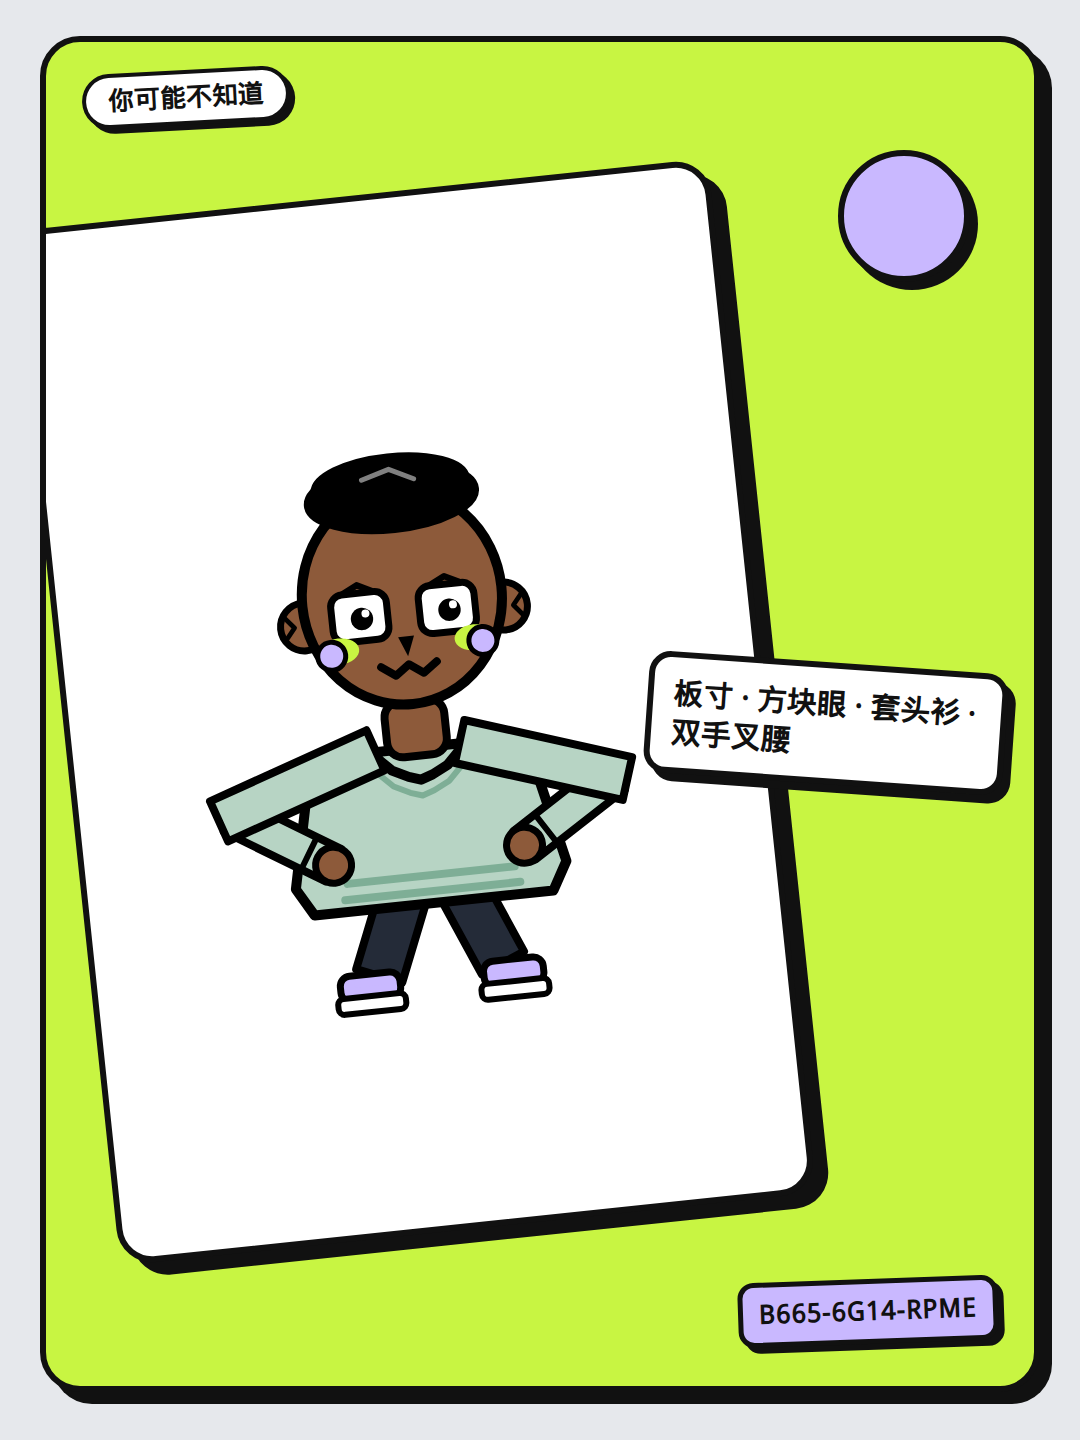
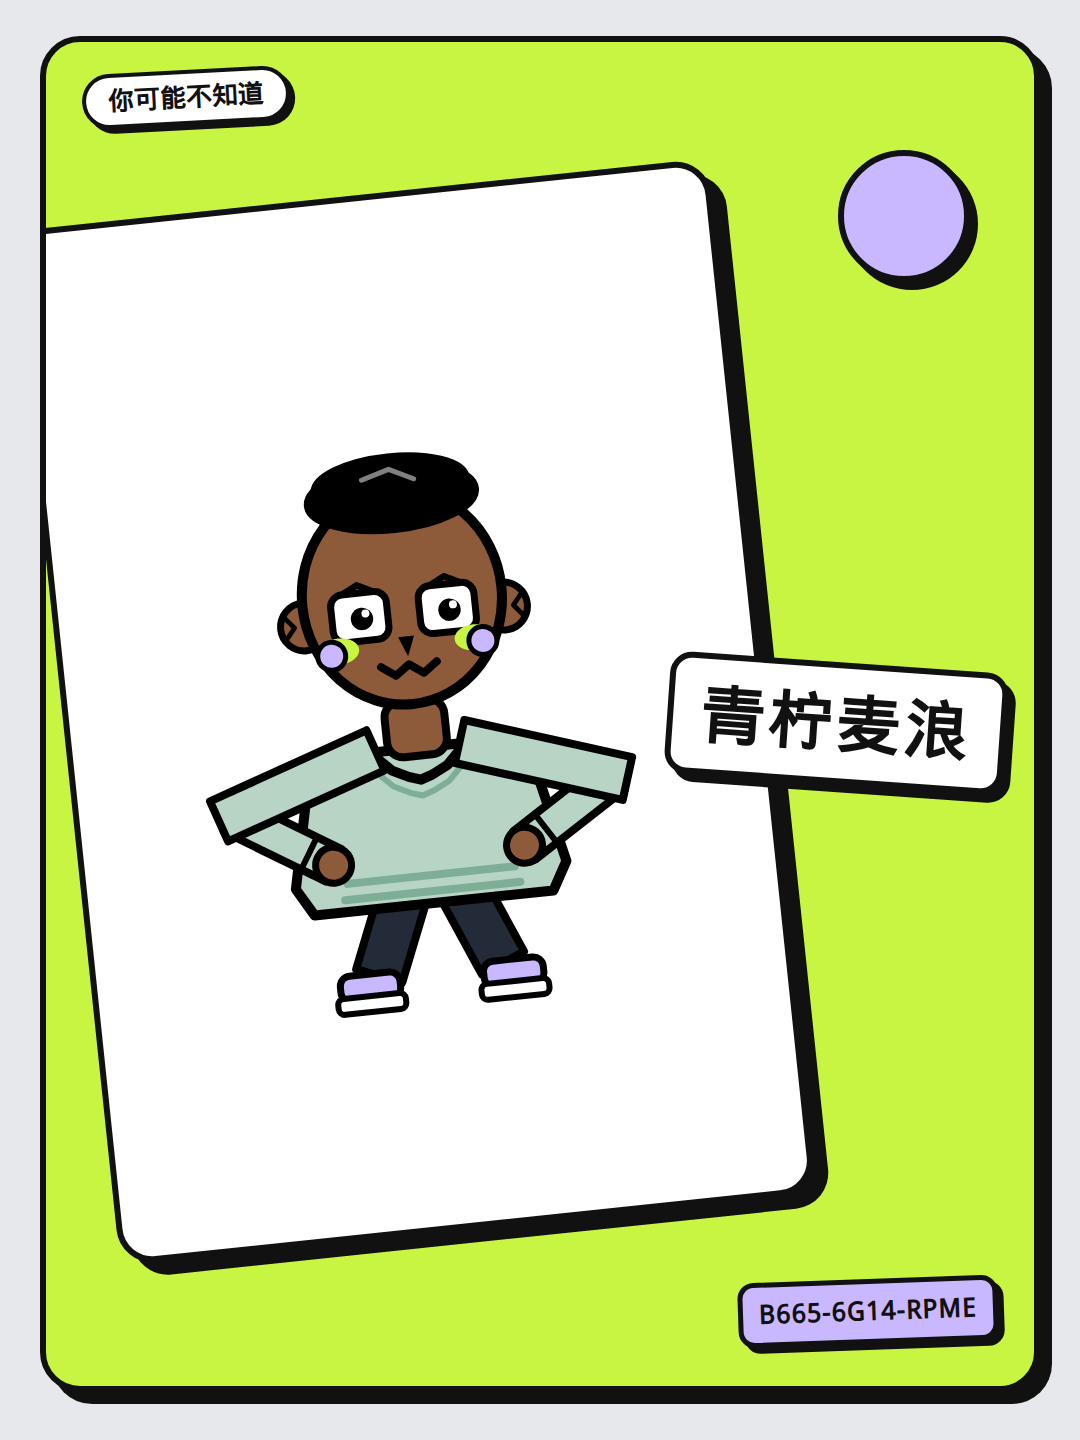
样张右侧改成指纹码生成的四字中文名
成绩卡只留形象、唯一名字和编码。名字由规范化指纹码确定性地取前后词拼成，不再把发型眼睛衣服姿势写上卡面。

Changed region(s): [[0.5806, 0.4375, 0.9167, 0.5625]]

diff --git a/preview.html b/preview.html
@@ -80,16 +80,17 @@
       right: 28px;
       top: 620px;
       z-index: 3;
-      max-width: 360px;
       background: #fff;
       border: 6px solid #111;
       border-radius: 22px;
-      padding: 16px 20px;
+      padding: 18px 28px;
       box-shadow: 8px 8px 0 #111;
       transform: rotate(4deg);
-      font-size: 30px;
+      font-size: 64px;
       font-weight: 900;
-      line-height: 1.3;
+      line-height: 1.15;
+      letter-spacing: 0.06em;
+      white-space: nowrap;
     }
     .stamp {
       position: absolute;
@@ -230,7 +231,7 @@
         var model = G.figureModel(raw);
         if (rewrite) document.getElementById('fp').value = model.fp;
         document.getElementById('code').textContent = model.fp;
-        document.getElementById('meta').textContent = model.cardLine;
+        document.getElementById('meta').textContent = model.displayName;
         document.getElementById('panel').innerHTML = G.figureSVG(model.fp, 500);
         paint('c320', model.fp, 320);
         paint('c128', model.fp, 128);
@@ -250,7 +251,7 @@
       }
       function fillTools() {
         var G = window.YKBD_FIGURE;
-        document.getElementById('lead').textContent = '组合数 ' + G.combo + '。地址栏可用 ?fp=XXXX-XXXX-XXXX ，本页不联网。白卡只放形象、部件名和指纹码。';
+        document.getElementById('lead').textContent = '组合数 ' + G.combo + '。地址栏可用 ?fp=XXXX-XXXX-XXXX ，本页不联网。白卡只放形象、中文名和编码。';
         var seeds = document.getElementById('seeds');
         var i;
         for (i = 0; i < EXAMPLES.length; i++) {

diff --git a/js/figure-avatar.js b/js/figure-avatar.js
@@ -202,6 +202,26 @@
     if (mainFill === '#C9B8FF') return '#C8F542';
     return '#C9B8FF';
   }
+  /* 四字合成名：前词 + 后词，只由规范化后的 12 位码决定。 */
+  var NAME_L = [
+    '盐巴', '雾窗', '纸鹤', '月光', '晴天', '晚风', '海盐', '青苔',
+    '薄荷', '电台', '松果', '信笺', '麦芽', '果酱', '码头', '蝉鸣',
+    '暖桌', '纸船', '柠檬', '夜航', '糖纸', '雨巷', '青柠', '候鸟',
+    '潮汐', '绒线', '晨雾', '桃核', '风铃', '银杏', '云朵', '星子'
+  ];
+  var NAME_R = [
+    '气球', '火柴', '汽水', '拉面', '板栗', '灯塔', '柚子', '邮戳',
+    '饼干', '墨水', '柳絮', '炉火', '雪松', '琴键', '藤蔓', '贝壳',
+    '麦浪', '灯芯', '霜糖', '茶渍', '枫糖', '橘瓣', '苇岸', '瓷杯',
+    '线团', '露台', '热汤', '铁盒', '蜡笔', '毛线', '船票', '布丁'
+  ];
+  function figureName(raw) {
+    var h = fnv('ykbd-cn-name:' + raw);
+    var left = NAME_L[h % NAME_L.length];
+    h = Math.imul(h ^ (h >>> 16), 0x7feb352d) >>> 0;
+    return left + NAME_R[h % NAME_R.length];
+  }
+
   function pub(list) {
     var out = [];
     for (var i = 0; i < list.length; i++) out.push({ id: list[i].id, name: list[i].name });
@@ -252,6 +272,7 @@
         shoe: detail
       },
       sleeve: sleeve,
+      displayName: figureName(raw),
       cardLine: HAIR[hi].name + ' · ' + EYES[ei].name + ' · ' + BODY[bi].name + ' · ' + POSE[pi].name
     };
   }

diff --git a/tools/model-check.js b/tools/model-check.js
@@ -192,9 +192,15 @@ else {
 console.log('MODEL ' + a.hair.name + ' / ' + a.eyes.name + ' / ' + a.mouth.name + ' / ' + a.body.name + ' / ' + a.pose.name + ' / ' + a.main.name + ' / ' + a.accent.name + ' / ' + a.accessory.name);
 
 var samples = ['B665-6G14-RPME', '0000-0000-0000', '0708-0253-0243', '0509-0736-0305', '0401-0174-0474'];
+var seenName = {};
 for (i = 0; i < samples.length; i++) {
   var m = G.figureModel(samples[i]);
-  console.log('SEED ' + m.fp + ' ' + m.hair.id + ' ' + m.eyes.id + ' ' + m.mouth.id + ' ' + m.body.id + ' ' + m.pose.id + ' ' + m.main.id + ' ' + m.accent.id + ' ' + m.accessory.id);
+  console.log('SEED ' + m.fp + ' ' + m.displayName + ' ' + m.hair.id + ' ' + m.eyes.id + ' ' + m.mouth.id + ' ' + m.body.id + ' ' + m.pose.id + ' ' + m.main.id + ' ' + m.accent.id + ' ' + m.accessory.id);
+  if (!m.displayName || m.displayName.length < 2 || m.displayName.length > 4) fail('name len ' + m.fp + ' ' + m.displayName);
+  if (m.displayName.indexOf('·') >= 0) fail('name parts ' + m.fp);
+  if (G.figureModel(m.fp).displayName !== m.displayName) fail('name unstable ' + m.fp);
+  if (seenName[m.displayName]) fail('name collide ' + m.displayName);
+  seenName[m.displayName] = 1;
 }
 
 if (fails.length) {

diff --git a/README.md b/README.md
@@ -13,7 +13,7 @@
 - 页面上有输入框和 5 个样张种子，点一下就换
 - 部件一览：`tools/sheet.html`（12 种发型、10 种眼睛、10 种嘴、8 种衣服、8 种姿势、8 种配件）
 
-`?shot=1` 会藏起说明，留下 1080×1440 的黄绿斜贴卡，用来截样张。贴纸里的小人整身居中，右侧是部件名，右下是指纹码。不写成绩。硬规则原文：`docs/FIGURE_HARD_RULES.md`（与根目录 `RULES.md` 相同）。视觉气质见 `samples/reference-b3/`。
+`?shot=1` 会藏起说明，留下 1080×1440 的黄绿斜贴卡，用来截样张。贴纸里的小人整身居中，右侧只有指纹码生成的四字中文名，右下是编码。不写部件说明，不写成绩。硬规则原文：`docs/FIGURE_HARD_RULES.md`（与根目录 `RULES.md` 相同）。视觉气质见 `samples/reference-b3/`。
 
 ## 种子怎么切
 
@@ -64,7 +64,7 @@
 
 每个发型都要在 `HAIR_TYPE` 里声明类型，漏声明会让自检失败。`bangs`（齐耳波波、偏分、双丸子、长直发、侧马尾、齐肩、侧扫、单丸子）必须把额发盖到眉上，额头覆盖率至少 0.70。`short`（蓬圆、尖刺）允许露额，前发不能压到眼睛。`crop`（短发、板寸）必须露额，额头覆盖率不超过 0.45。本引擎画布是 320×320，眉上一带约在 y=64–96，对应定稿里另一套坐标的额头带。
 
-演示卡只放形象、部件名和指纹码，不写成绩，也不使用「本局限定」「指纹小人」「示意稿」「本局卡」「指纹名」「仅此一局」「冷知识」。
+演示卡只放形象、四字中文名和编码。名字由规范化后的 12 位码用 FNV 取前后词表拼成，同一种子永远同一个名字。不写「板寸 · 方块眼」这类部件说明，不写成绩，也不使用「本局限定」「指纹小人」「示意稿」「本局卡」「指纹名」「仅此一局」「冷知识」。
 
 ## 视觉
 
@@ -80,7 +80,7 @@
 | `figureSVG(fp, size)` | SVG 字符串。`size` 是边长，默认 320。坐标系 320×320 |
 | `drawFigure(ctx, fp, x, y, size)` | 同步画到 canvas。`x, y` 是左上角，`size` 是边长 |
 
-若 `window.YKBD_F` 已经存在，本文件会把 `F.avatarSVG(fp)` 和 `F.drawAvatar(ctx, fp, x, y, size)` 指到新引擎，调用方式和旧头像相同。`F.encode` / `F.decode` / `F.fnv` / `F.rng` 与小工具兼容。预览卡只写部件名和指纹码，不写成绩。
+若 `window.YKBD_F` 已经存在，本文件会把 `F.avatarSVG(fp)` 和 `F.drawAvatar(ctx, fp, x, y, size)` 指到新引擎，调用方式和旧头像相同。`F.encode` / `F.decode` / `F.fnv` / `F.rng` 与小工具兼容。预览卡只写中文名和编码，不写成绩。`figureModel(fp).displayName` 是这枚码的四字名，`cardLine` 只给对照表用，不上卡。
 
 ## 目录
 
@@ -104,15 +104,17 @@
 
 ## 样张
 
-由 `bash tools/render-samples.sh` 用无头 Chrome 打开 `preview.html?shot=1` 截取，1080×1440。贴纸里是完整全身，右侧是部件名，右下是指纹码。
+由 `bash tools/render-samples.sh` 用无头 Chrome 打开 `preview.html?shot=1` 截取，1080×1440。贴纸里是完整全身，右侧是四字中文名，右下是编码。
 
-| 文件 | 形象 |
-| --- | --- |
-| `samples/B665-6G14-RPME.png` | 板寸露额 · 方块眼 · 波浪嘴 · 套头衫 · 双手叉腰 · 灰绿 · 淡紫颊点 |
-| `samples/0000-0000-0000.png` | 齐耳波波 · 方框眼镜 · 一字嘴 · 荧光黄绿短袖 · 自然站立 |
-| `samples/0708-0253-0243.png` | 蓬圆露额 · 墨镜 · 开口笑 · 冰蓝连帽衫（帽绳、口袋）· 挥手 · 小包 |
-| `samples/0509-0736-0305.png` | 长直发在身后 · 眨眼 · 齿笑 · 背带 · 迈步 · 领结 |
-| `samples/0401-0174-0474.png` | 双丸子 · 圆框眼镜 · 微笑 · 条纹衫 · 双手叉腰 · 发带 |
+卡面右侧写的是中文名，不是下面这列形象说明。
+
+| 文件 | 中文名 | 形象 |
+| --- | --- | --- |
+| `samples/B665-6G14-RPME.png` | 青柠麦浪 | 板寸露额 · 方块眼 · 波浪嘴 · 套头衫 · 双手叉腰 · 灰绿 · 淡紫颊点 |
+| `samples/0000-0000-0000.png` | 雨巷苇岸 | 齐耳波波 · 方框眼镜 · 一字嘴 · 荧光黄绿短袖 · 自然站立 |
+| `samples/0708-0253-0243.png` | 晚风汽水 | 蓬圆露额 · 墨镜 · 开口笑 · 冰蓝连帽衫（帽绳、口袋）· 挥手 · 小包 |
+| `samples/0509-0736-0305.png` | 候鸟橘瓣 | 长直发在身后 · 眨眼 · 齿笑 · 背带 · 迈步 · 领结 |
+| `samples/0401-0174-0474.png` | 果酱船票 | 双丸子 · 圆框眼镜 · 微笑 · 条纹衫 · 双手叉腰 · 发带 |
 
 ## Chrome 61 自检
 
